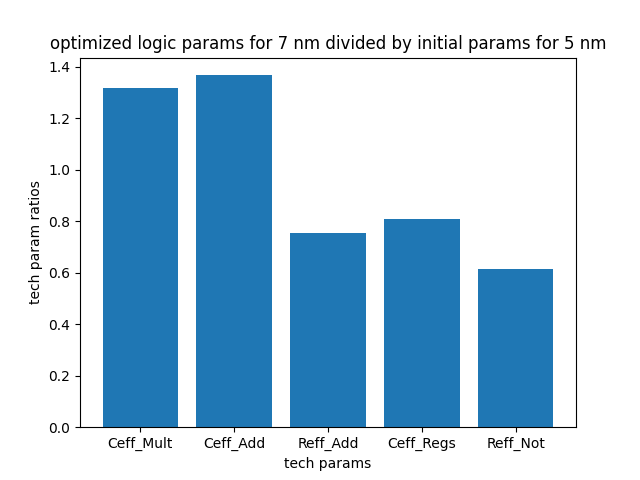
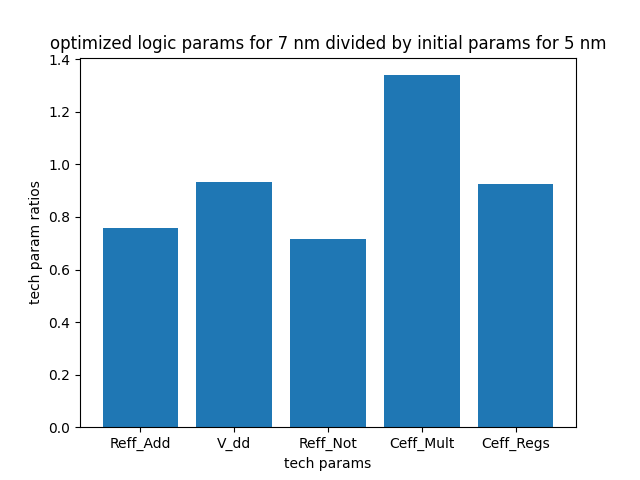
update validation scripts to work with new cacti substitution and parasitic calculation

diff --git a/src/inverse_validation/inverse_validate.py b/src/inverse_validation/inverse_validate.py
@@ -114,6 +114,7 @@ def run_initial():
         )
         scheduled_dfg = simulator.schedule(computation_dfg, hw)
         hardwareModel.un_allocate_all_in_use_elements(hw.netlist)
+        hw.get_wire_parasitics("", "none")
         simulator.simulate(scheduled_dfg, hw)
         simulator.calculate_edp()
         logger.warning(f"edp of simulation running on {tech_node} nm {args.test_type} tech node: {simulator.edp} E-18 Js")
@@ -135,7 +136,10 @@ def run_pairwise(tech_node_pair, improvement, hws, dfgs):
     hardwareModel.un_allocate_all_in_use_elements(hws[tech_node_pair[0]].netlist)
 
     symbolic_sim.simulate(dfgs[tech_node_pair[0]], hws[tech_node_pair[0]])
-    symbolic_sim.calculate_edp(hws[tech_node_pair[0]])
+    cacti_subs = symbolic_sim.calculate_edp(hws[tech_node_pair[0]])
+
+    for cacti_var in cacti_subs:
+        initial_tech_params[tech_node_pair[0]][cacti_var] = cacti_subs[cacti_var].xreplace(initial_tech_params[tech_node_pair[0]]).evalf()
 
     # we only want to optimize the variables specified by the test type, so keep the others constant by substituting concrete values
     if (args.test_type == "cacti"):
@@ -143,7 +147,9 @@ def run_pairwise(tech_node_pair, improvement, hws, dfgs):
         symbolic_sim.edp = symbolic_sim.edp.xreplace(logic_params)
         #logger.warning(f"symbolic edp after subbing out logic params: {symbolic_sim.edp}")
     elif (args.test_type == "logic"):
-        cacti_params = sim_util.generate_cacti_init_params_from_rcs_as_symbols(rcs_m[tech_node_pair[0]])
+        cacti_params = {}
+        for cacti_var in cacti_subs:
+            cacti_params[cacti_var] = initial_tech_params[tech_node_pair[0]][cacti_var]
         symbolic_sim.edp = symbolic_sim.edp.xreplace(cacti_params)
         #logger.warning(f"symbolic edp after subbing out cacti params: {symbolic_sim.edp}")
 
@@ -152,7 +158,7 @@ def run_pairwise(tech_node_pair, improvement, hws, dfgs):
 
     stdout = sys.stdout
     with open(f"{args.savedir}/ipopt_out_{tech_node_pair[0]}.txt", "w") as sys.stdout:
-        optimize.optimize(initial_tech_params[tech_node_pair[0]], symbolic_sim.edp, "ipopt", improvement, regularization=0.1)
+        optimize.optimize(initial_tech_params[tech_node_pair[0]], symbolic_sim.edp, "ipopt", cacti_subs, improvement, regularization=0.1)
     sys.stdout = stdout
     f = open(f"{args.savedir}/ipopt_out_{tech_node_pair[0]}.txt", "r")
     final_tech_params[tech_node_pair[0]] = parse_output(f)

diff --git a/src/preprocess.py b/src/preprocess.py
@@ -36,12 +36,6 @@ class Preprocessor:
         self.pow_subs = {}
         self.cacti_subs_s = {}
 
-    def f(self, model):
-        return model.x[self.mapping[hw_symbols.f]] >= 1e6
-
-    def f_upper(self, model):
-        return model.x[self.mapping[hw_symbols.f]] <= 5e9
-
     def V_dd_lower(self, model):
         return model.x[self.mapping[hw_symbols.V_dd]] >= 0.5
     
@@ -109,10 +103,12 @@ class Preprocessor:
 
         model.CactiConstraint = pyo.Constraint([i for i in range(len(self.cacti_subs_pyo))], rule=self.make_cacti_constraint)
 
-        model.V_dd_lower = pyo.Constraint(rule=self.V_dd_lower)
-        model.V_dd_upper = pyo.Constraint(rule=self.V_dd_upper)
+        if hw_symbols.V_dd in self.mapping: 
+            model.V_dd_lower = pyo.Constraint(rule=self.V_dd_lower)
+            model.V_dd_upper = pyo.Constraint(rule=self.V_dd_upper)
         # cacti Vdd >= Vth constraint
-        model.Vdd_not_cutoff = pyo.Constraint(rule=self.Vdd_not_cutoff)
+        if hw_symbols.Vdd in self.mapping:
+            model.Vdd_not_cutoff = pyo.Constraint(rule=self.Vdd_not_cutoff)
 
         # all parameters can only be less than or equal to their initial values
         model.Constraint2 = pyo.Constraint([i for i in range(len(self.free_symbols))], rule=self.max_val_orig_val_rule)

diff --git a/src/inverse_validation/inverse_walkthrough_example.py b/src/inverse_validation/inverse_walkthrough_example.py
@@ -127,6 +127,7 @@ class InverseWalkthrough:
         )
         self.scheduled_dfg = simulator.schedule(computation_dfg, self.hw)
         hardwareModel.un_allocate_all_in_use_elements(self.hw.netlist)
+        self.hw.get_wire_parasitics("", "none")
         simulator.simulate(self.scheduled_dfg, self.hw)
         simulator.calculate_edp()
         logger.warning(f"edp of forward pass: {simulator.edp} E-18 Js")
@@ -141,14 +142,14 @@ class InverseWalkthrough:
         hardwareModel.un_allocate_all_in_use_elements(self.hw.netlist)
 
         symbolic_sim.simulate(self.scheduled_dfg, self.hw)
-        symbolic_sim.calculate_edp(self.hw)
+        cacti_subs = symbolic_sim.calculate_edp(self.hw)
 
         current_tech_params = self.initial_tech_params.copy()
 
         for _ in range(num_iters):
             stdout = sys.stdout
             with open(f"{self.args.savedir}/ipopt_out.txt", "w") as sys.stdout:
-                optimize.optimize(current_tech_params, symbolic_sim.edp, "ipopt", regularization=0.1)
+                optimize.optimize(current_tech_params, symbolic_sim.edp, "ipopt", cacti_subs, regularization=0.1)
             sys.stdout = stdout
             f = open(f"{self.args.savedir}/ipopt_out.txt", "r")
             current_tech_params = self.parse_output(f)
